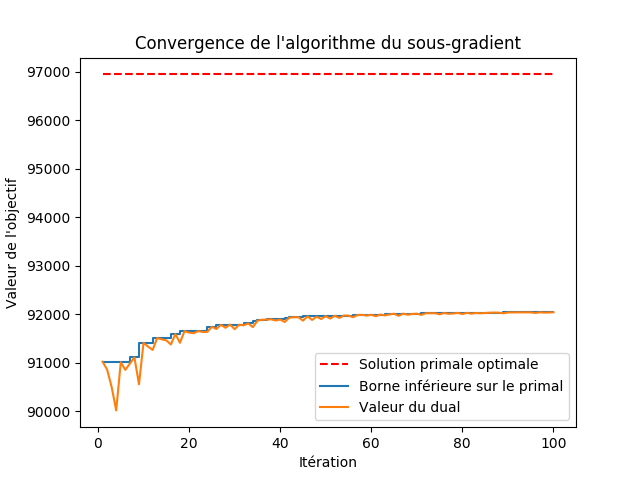
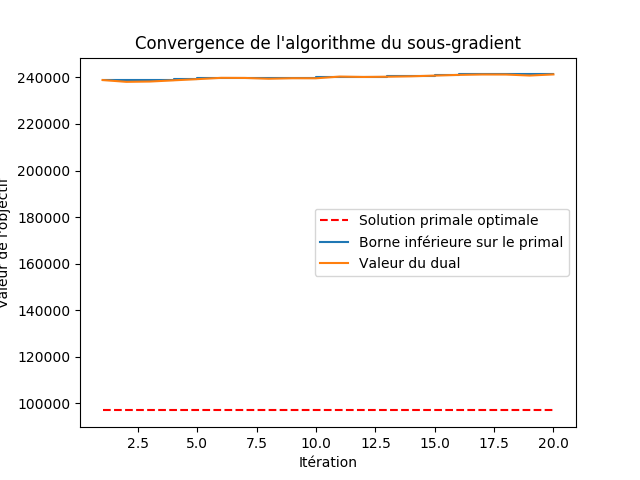
Task 4 done: Ergodic iterates for finding primal feasible solution

diff --git a/src/main.py b/src/main.py
@@ -15,14 +15,17 @@ import argparse
 import pulp
 
 
-def solve_problem(instance, relax=True, _round=False):
-    # Formulate the LP relaxation for the given instance
-    problem, (u, v, p, theta, w, z, e) = create_formulation(instance, relax=relax)
-
-    # Solve LP relaxation
+def solve_problem(instance, relax=True, _round=False, decompose=False):
     print("Solving problem...")
     start = time.time()
-    problem.solve()
+    if not decompose:
+        # Formulate the LP relaxation for the given instance
+        problem, (u, v, p, theta, w, z, e) = create_formulation(instance, relax=relax)
+        # Solve LP relaxation
+        problem.solve()
+    else:
+        problem = solve_with_subgradient(instance)
+        evolve_and_fix(problem)
     exec_time = time.time() - start
     obj = problem.objective.value()
     print("Solve time: %f s" % exec_time)
@@ -82,21 +85,22 @@ def main():
     # Parse instance file
     instance = SUPInstance.from_file(args.instance_file_path)
 
-    if args.decompose:
-        solve_with_subgradient(instance)
-    else:
-        obj, total_time, n_violated = solve_problem(
-            instance, relax=args.relax, _round=args.round)
+    obj, total_time, n_violated = solve_problem(
+        instance, relax=args.relax, _round=args.round, decompose=args.decompose)
 
 
 if __name__ == "__main__":
+    """
     with open("results.txt", "w") as f:
         folder = "../instances"
         for filename in os.listdir(folder):
             if "inst-10" in filename:
+                print(filename)
+
                 filepath = os.path.join(folder, filename)
                 instance = SUPInstance.from_file(filepath)
 
-                print(filename)
-                obj, total_time, n_violated = solve_problem(instance, relax=True)
-                f.write("%f, %f, %d\n" % (obj, total_time, n_violated))
+                obj, total_time, n_violated = solve_problem(instance, relax=True, _round="evolve-and-fix")
+                f.write("%s, %f, %f, %d\n" % (filename, obj, total_time, n_violated))
+    """
+    main()

diff --git a/src/instance.py b/src/instance.py
@@ -108,7 +108,7 @@ class SUPInstance:
             "UT", "DT", "T_req", "F_req", "B", "TC", "FR", "IC", "GAMMA"])
 
     @staticmethod
-    def parse_n_data_lines(f, n_lines, is_index=False):
+    def parse_n_data_lines(f, n_lines, is_index=False, return_lists=False):
         i = 0
         data = list()
         while i < n_lines:
@@ -130,7 +130,10 @@ class SUPInstance:
                         elements.append(int(word)-1 if is_index else int(word))
                     else:
                         elements.append(float(word))
-                data.append(elements if len(elements) > 1 else elements[0])
+                if return_lists:
+                    data.append(elements)
+                else:
+                    data.append(elements if len(elements) > 1 else elements[0])
                 i += 1
         return data
 
@@ -144,15 +147,12 @@ class SUPInstance:
     def from_file(filepath):
         with open(filepath) as f:
             n_generators = int(SUPInstance.parse_n_data_lines(f, 1)[0])
-            Gs = np.asarray(SUPInstance.parse_n_data_lines(f, 1, is_index=True)[0],
-                dtype=np.int)
-            Gf = np.asarray(SUPInstance.parse_n_data_lines(f, 1, is_index=True)[0],
-                dtype=np.int)
+            Gs = np.asarray(SUPInstance.parse_n_data_lines(
+                f, 1, is_index=True, return_lists=True)[0], dtype=np.int)
+            Gf = np.asarray(SUPInstance.parse_n_data_lines(
+                f, 1, is_index=True, return_lists=True)[0], dtype=np.int)
 
-            try:
-                assert(n_generators == len(Gs) + len(Gf))
-            except TypeError:
-                pass
+            assert(n_generators == len(Gs) + len(Gf))
             S = int(SUPInstance.parse_n_data_lines(f, 1)[0])
             T = int(SUPInstance.parse_n_data_lines(f, 1)[0])
             L = int(SUPInstance.parse_n_data_lines(f, 1)[0])

diff --git a/src/subgradient.py b/src/subgradient.py
@@ -47,8 +47,9 @@ def solve_with_subgradient(instance, _lambda=0.01, _epsilon=1.0):
     nu = np.zeros((instance.n_generators, instance.n_scenarios, instance.n_periods))
 
     lb_history, ub_history, dual_history = list(), list(), list()
+    primal_solutions = list()
     LB, UB = -np.inf, np.inf
-    for k in range(100):
+    for k in range(20):
         print("Iteration %i" % (k + 1))
         PP, P1, P2, ED, variables = decompose_problem(instance, mu, nu)
         (u, v, p, theta, w, z, e) = variables
@@ -94,6 +95,7 @@ def solve_with_subgradient(instance, _lambda=0.01, _epsilon=1.0):
         lb_history.append(LB)
         ub_history.append(UB)
         dual_history.append(L_k)
+        primal_solutions.append(PP.get_var_values())
         
         # print(np.swapaxes(PI * (z_k - v_k), 2, 1))
 
@@ -116,4 +118,19 @@ def solve_with_subgradient(instance, _lambda=0.01, _epsilon=1.0):
     plt.title("Convergence de l'algorithme du sous-gradient")
     plt.legend()
     plt.savefig("subgradient.png")
+
+
+    n_violated, groups_n_violated = PP.constraints_violated()
+    print("Number of violated constraints: %i" % n_violated)
+    for group in groups_n_violated.keys():
+        if groups_n_violated[group][0] > 0:
+            print("Number of violated constraints of group %s: %i / %i" % (
+                group, groups_n_violated[group][0], groups_n_violated[group][1]))
+
+    primal_solutions = np.asarray(primal_solutions)
+    betas = 1. / (2000 * (0.96 ** np.arange(len(primal_solutions))))
+    betas /= betas.sum()
+    convex_comb = (betas * primal_solutions.T).sum(axis=1)
+
+    PP.set_var_values(convex_comb)
     return PP

diff --git a/src/heuristics.py b/src/heuristics.py
@@ -32,10 +32,10 @@ def evolve_and_fix(problem):
         groups=["3.25", "3.26", "3.29", "3.30", "3.31", "3.32", "3.35", "3.36", "3.37"])
     cp = genetic.CyProblem(cy_constraints)
 
-    max_n_iter = 10000
-    part_size = 4
-    n_mutations = int(np.sum(int_mask) / .05)
-    pop_size = 200
+    max_n_iter = 100000
+    part_size = 2
+    n_mutations = 2
+    pop_size = 100
 
     rounded, fitness = cp.round(solution, int_mask, max_n_iter=max_n_iter,
         part_size=part_size, n_mutations=n_mutations, pop_size=pop_size)
@@ -44,11 +44,10 @@ def evolve_and_fix(problem):
     n_violated, _ = problem.constraints_violated()
     last = n_violated
     stage = 0
-    max_n_iter = 50
     n_iter = 0
     fitness_history = list()
     only_3_32_constraints = False
-    while n_violated > 0 and not only_3_32_constraints:
+    while n_violated > 0 and not only_3_32_constraints and n_iter < 30:
         n_iter += 1
 
         only_3_32_constraints = True
@@ -74,6 +73,7 @@ def evolve_and_fix(problem):
                         if "Z" in var.name:
                             if random.random() < (1 - abs(c.value())) / 2.:
                                 var.upBound = var.lowBound = var_value = 1
+
         problem.solve()
 
         solution = problem.get_var_values()
@@ -89,8 +89,10 @@ def evolve_and_fix(problem):
             stage += 1
         last = fitness
     
+    """
     if n_violated == -1:
         print("[Warning] Evolve-and-fix heuristic failed")
     else:
         plt.plot(fitness_history)
         plt.show()
+    """

diff --git a/src/utils.py b/src/utils.py
@@ -75,6 +75,11 @@ class LpArray(np.ndarray):
     def __gt__(self, other):
         class OperationNotSupportedError(Exception): pass
         raise OperationNotSupportedError("Operation not supported for pulp.LpVariable")
+    
+    def fix_variables(self):
+        for index, variable in np.ndenumerate(self):
+            variable.lowBound = variable.varValue
+            variable.upBound = variable.varValue
 
     def set_var_values(self, values):
         values = np.asarray(values)
@@ -199,8 +204,7 @@ class SUCLpProblem(pulp.LpProblem):
         return self.get_variables().get_var_values()
 
     def set_var_values(self, values):
-        for i, variable in enumerate(list(self.variables())):
-            variable.varValue = values[i]
+        LpArray(self.variables(), info={"var_type" : "Mixed"}).set_var_values(values)
     
 
 if __name__ == "__main__":

diff --git a/src/decomposition.py b/src/decomposition.py
@@ -162,15 +162,15 @@ def decompose_problem(instance, mu, nu):
     #    z[g, t] >= w[g, t] - w[g, t-1] for slow generators
     problem.set_constraint_group("3.35")
     problem += (z[Gs, 1:] >= w[Gs, 1:] - w[Gs, :-1])
-    # problem += (z[Gs, 0] >= w[Gs, 0])
-    problem += z[Gs, 0] >= 0
-    problem += w[Gs, 0] >= 0
 
     # Define constraints group 3.40
     #    For slow generators:
     #    z[g, t] >= 0
     #    w[g, t] in {0, 1}
     #    Those constraints have been added during variables initialization
+    problem.set_constraint_group("3.40")
+    problem += z[Gs, 0] >= 0
+    problem += w[Gs, 0] >= 0
 
 
     ED = list() # Economic dispatches
